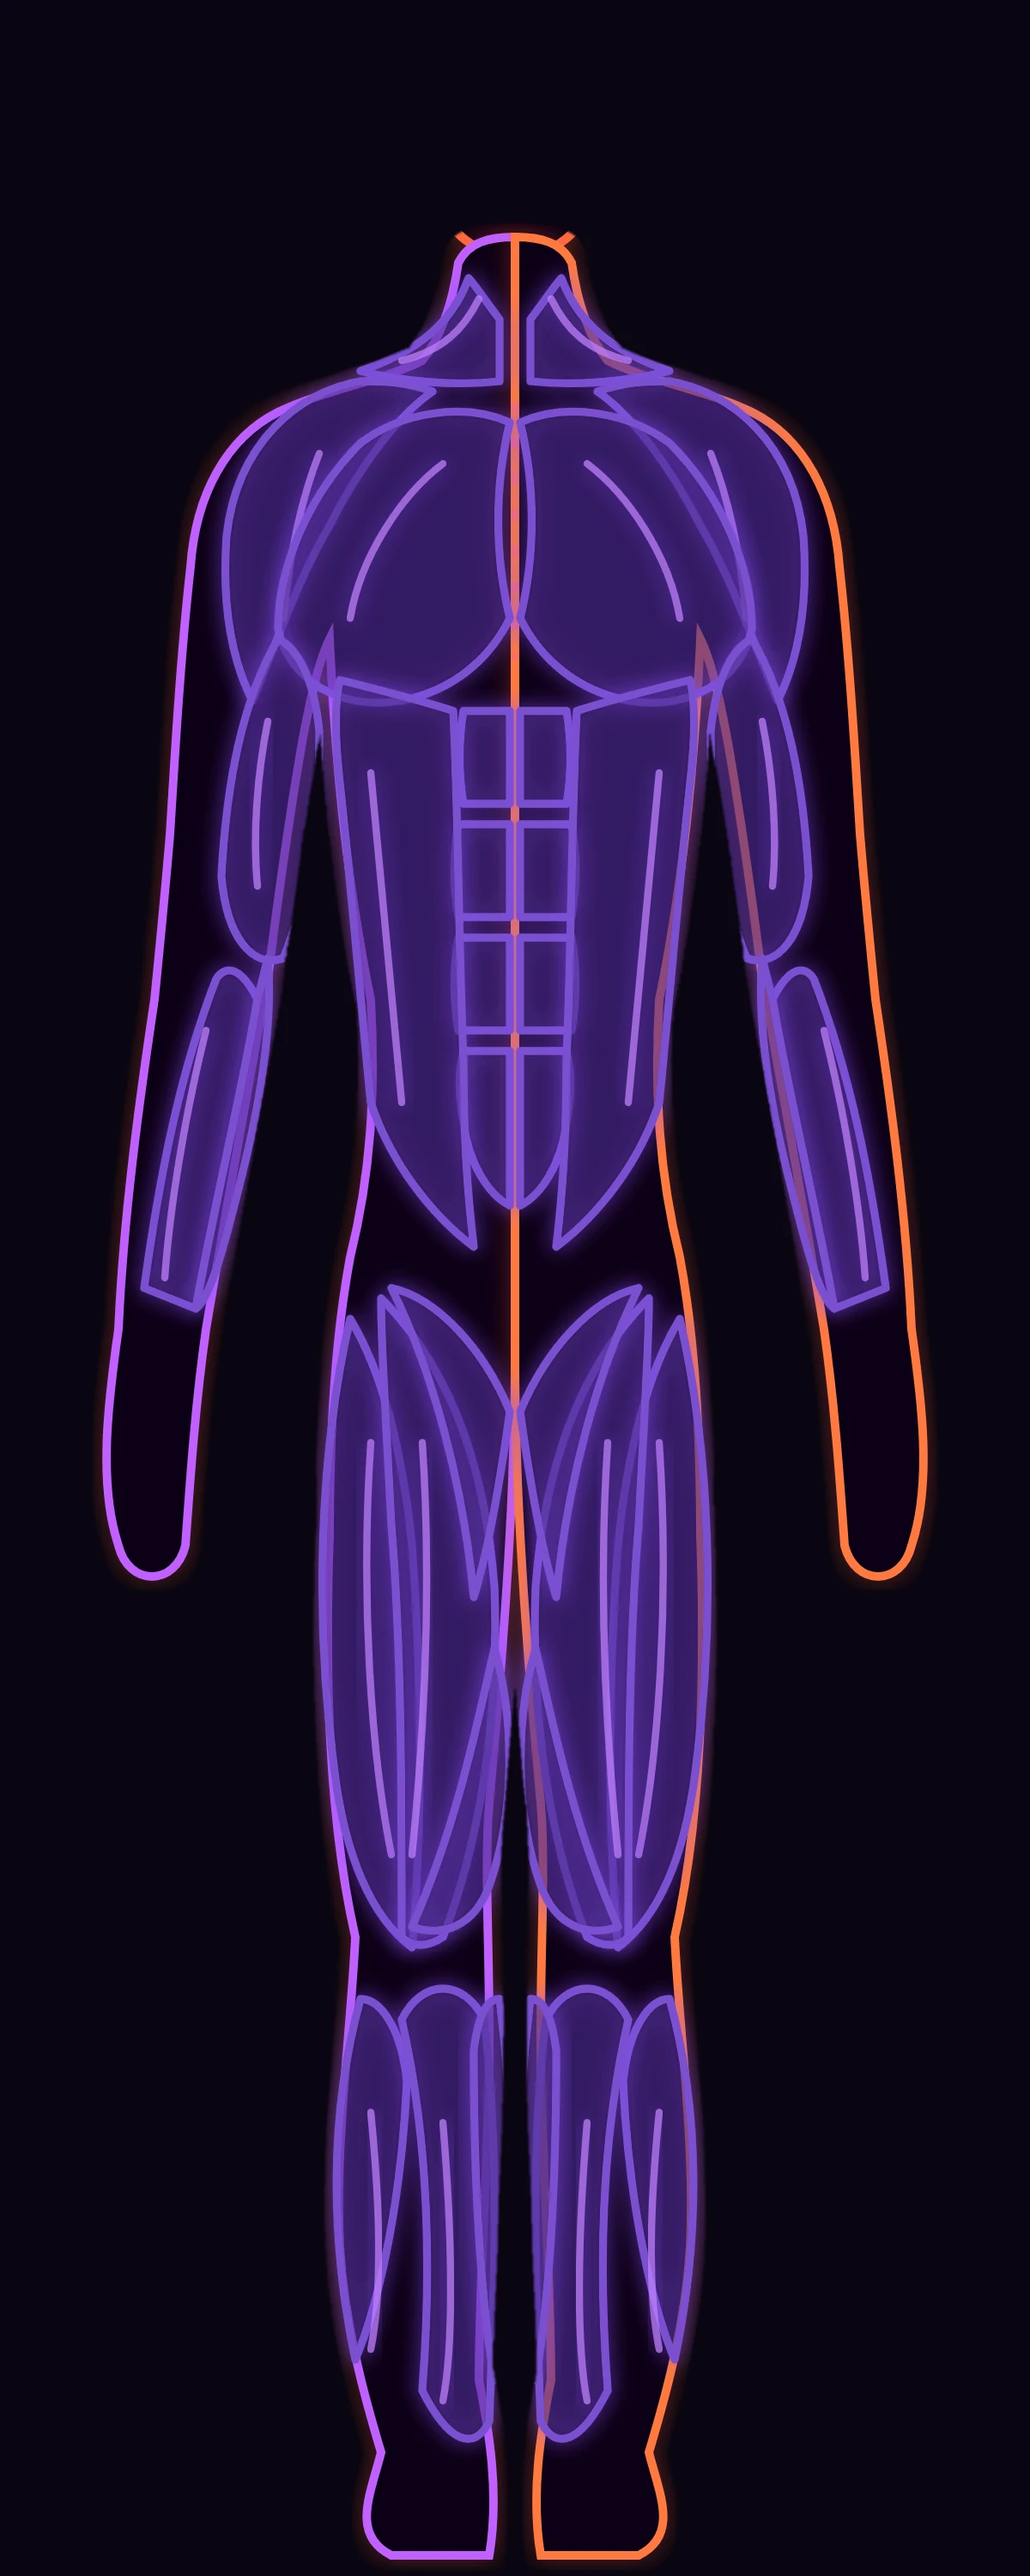
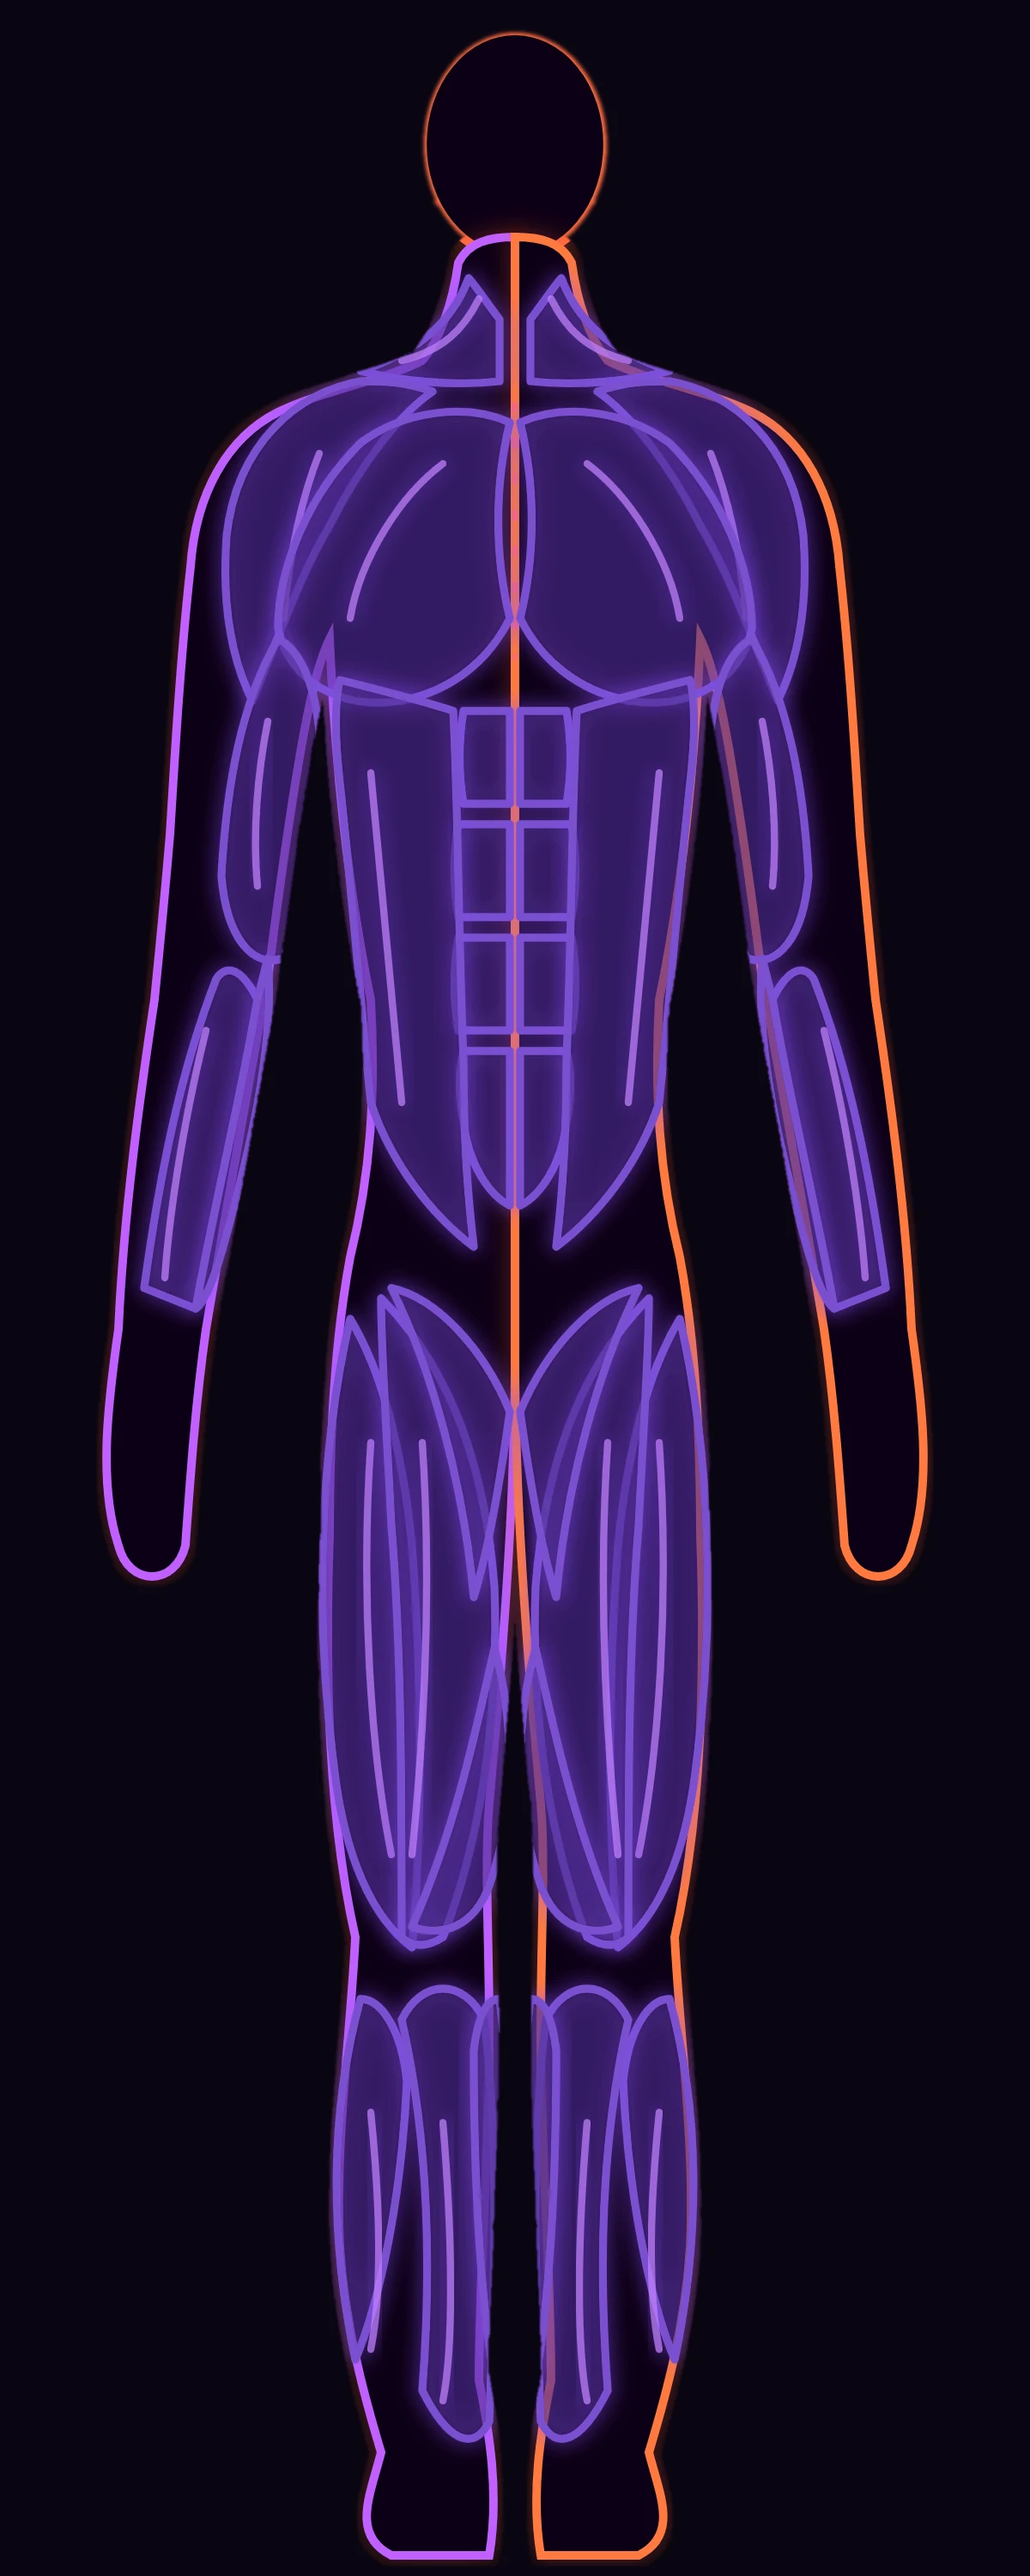
deploy v14: muscle bases with heads (v3b)

diff --git a/index.html b/index.html
@@ -4,7 +4,7 @@
     <meta charset="UTF-8" />
     <meta name="viewport" content="width=device-width, initial-scale=1.0, viewport-fit=cover" />
     <meta name="theme-color" content="#0a0614" />
-    <meta name="gym-build" content="v13-option3-aligned-bases" />
+    <meta name="gym-build" content="v14-muscle-heads" />
     <meta name="description" content="Gym Everyday — gym everyday, gym today. Log sets, see muscles, strength levels and monthly grind." />
     <link rel="icon" type="image/png" sizes="512x512" href="./icon-512.png" />
     <link rel="icon" type="image/svg+xml" href="./icon.svg" />

diff --git a/sw.js b/sw.js
@@ -1,5 +1,5 @@
 // Simple offline cache. Network first for pages, cache first for files.
-const CACHE = 'gym-everyday-v13'; // bump this on each release so old caches are dropped
+const CACHE = 'gym-everyday-v14'; // bump this on each release so old caches are dropped
 self.addEventListener('install', (e) => {
   self.skipWaiting();
   e.waitUntil(caches.open(CACHE).then((c) => c.addAll([
